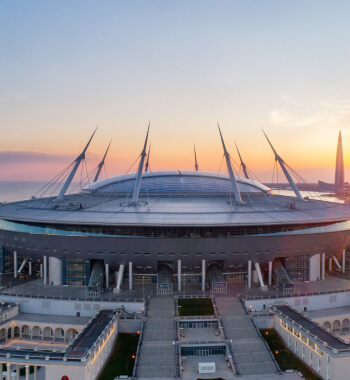
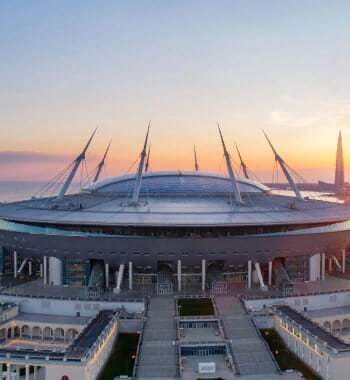
optimized img

diff --git a/index.html b/index.html
@@ -89,27 +89,27 @@
       <h2 class="services__title">ЧЕМ МЫ ЗАНИМАЕМСЯ?</h2>
       <ul class="services__grid">
         <li class="services__item">
-          <img src="image/icon.png" alt="icon" class="services__img">
+          <img src="image/icon.webp" alt="icon" class="services__img">
           <p class="services__subtitle">СТРОИТЕЛЬСТВО ОФИСНЫХ ЗДАНИЙ</p>
         </li>
         <li class="services__item">
-          <img src="image/icon.png" alt="icon" class="services__img">
+          <img src="image/icon.webp" alt="icon" class="services__img">
           <p class="services__subtitle">СТРОИТЕЛЬСТВО ОФИСНЫХ ЗДАНИЙ</p>
         </li>
         <li class="services__item">
-          <img src="image/icon.png" alt="icon" class="services__img">
+          <img src="image/icon.webp" alt="icon" class="services__img">
           <p class="services__subtitle">СТРОИТЕЛЬСТВО ОФИСНЫХ ЗДАНИЙ</p>
         </li>
         <li class="services__item">
-          <img src="image/icon.png" alt="icon" class="services__img">
+          <img src="image/icon.webp" alt="icon" class="services__img">
           <p class="services__subtitle">СТРОИТЕЛЬСТВО ОФИСНЫХ ЗДАНИЙ</p>
         </li>
         <li class="services__item">
-          <img src="image/icon.png" alt="icon" class="services__img">
+          <img src="image/icon.webp" alt="icon" class="services__img">
           <p class="services__subtitle">СТРОИТЕЛЬСТВО ОФИСНЫХ ЗДАНИЙ</p>
         </li>
         <li class="services__item">
-          <img src="image/icon.png" alt="icon" class="services__img">
+          <img src="image/icon.webp" alt="icon" class="services__img">
           <p class="services__subtitle">СТРОИТЕЛЬСТВО ОФИСНЫХ ЗДАНИЙ</p>
         </li>
       </ul>
@@ -162,10 +162,10 @@
       <div class="partners__wrap">
         <h2 class="partners__title">наши партнеры</h2>
         <ul class="partners__list">
-          <li class="partners__item"><img src="image/partners.png" alt=""></li>
-          <li class="partners__item"><img src="image/partners.png" alt=""></li>
-          <li class="partners__item"><img src="image/partners.png" alt=""></li>
-          <li class="partners__item"><img src="image/partners.png" alt=""></li>
+          <li class="partners__item"><img src="image/partners.webp" alt=""></li>
+          <li class="partners__item"><img src="image/partners.webp" alt=""></li>
+          <li class="partners__item"><img src="image/partners.webp" alt=""></li>
+          <li class="partners__item"><img src="image/partners.webp" alt=""></li>
         </ul>
       </div>
     </section>
